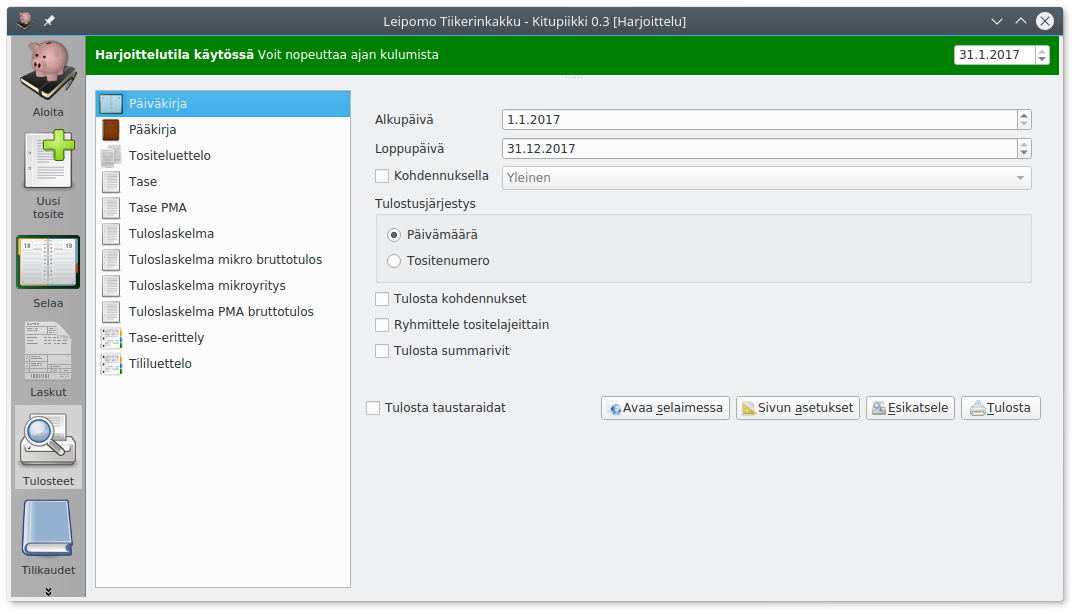
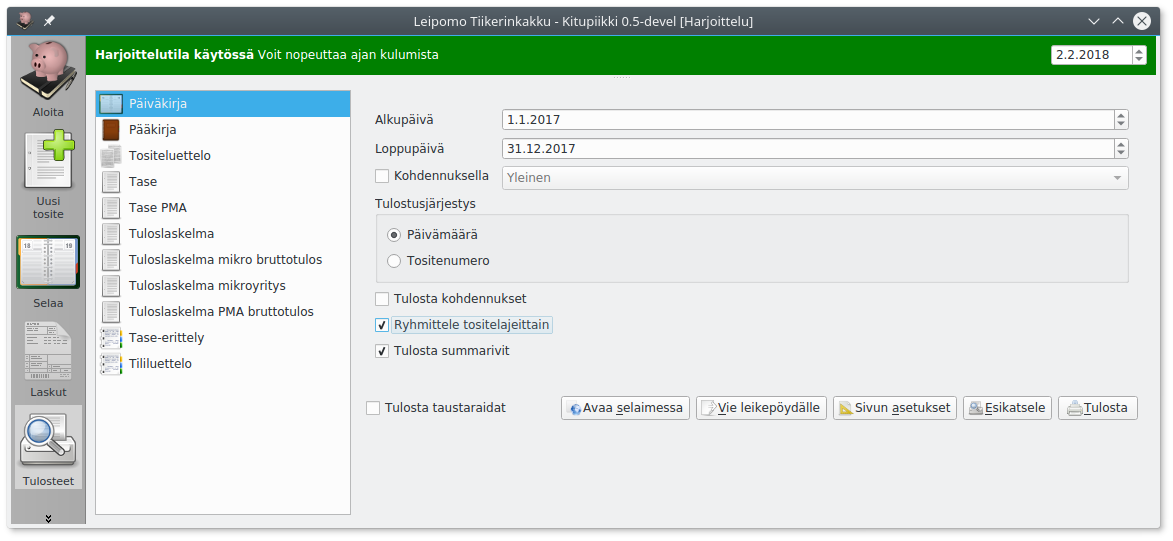
#56 Raportin vienti leikepöydälle

diff --git a/kitupiikki/raportti/raportti.cpp b/kitupiikki/raportti/raportti.cpp
@@ -33,6 +33,10 @@
 #include <QVBoxLayout>
 #include <QHBoxLayout>
 
+#include <QMimeData>
+#include <QApplication>
+#include <QClipboard>
+
 #include "raportti.h"
 #include "db/kirjanpito.h"
 
@@ -43,6 +47,7 @@ Raportti::Raportti( QWidget *parent) : QWidget(parent)
 
         raitaCheck = new QCheckBox(tr("Tulosta taustaraidat"));
         QPushButton *htmlBtn = new QPushButton( QIcon(":/pic/web.png"), tr("Avaa &selaimessa"));
+        QPushButton *vieBtn = new QPushButton( QIcon(":/pic/vie.png"), tr("&Vie leikepöydälle"));
         QPushButton *sivunasetusBtn = new QPushButton(QIcon(":/pic/sivunasetukset.png"),  tr("Sivun &asetukset"));
         QPushButton *esikatseluBtn = new QPushButton(QIcon(":/pic/print.png"), tr("&Esikatsele"));
         QPushButton *tulostaBtn = new QPushButton( QIcon(":/pic/tulosta.png"), tr("&Tulosta"));
@@ -51,6 +56,7 @@ Raportti::Raportti( QWidget *parent) : QWidget(parent)
         nappiLeiska->addWidget(raitaCheck);
         nappiLeiska->addStretch();
         nappiLeiska->addWidget( htmlBtn);
+        nappiLeiska->addWidget( vieBtn );
         nappiLeiska->addWidget( sivunasetusBtn);
         nappiLeiska->addWidget(esikatseluBtn);
         nappiLeiska->addWidget(tulostaBtn);
@@ -63,6 +69,7 @@ Raportti::Raportti( QWidget *parent) : QWidget(parent)
         setLayout(paaLeiska);
 
         connect( htmlBtn, SIGNAL(clicked(bool)), this, SLOT(avaaHtml()));
+        connect( vieBtn, SIGNAL(clicked(bool)), this, SLOT(leikepoydalle()));
         connect( sivunasetusBtn, SIGNAL(clicked(bool)), this, SLOT(sivunAsetukset()));
         connect( esikatseluBtn, SIGNAL(clicked(bool)), this, SLOT(esikatsele()) );
         connect( tulostaBtn, SIGNAL(clicked(bool)), this, SLOT(tulosta()) );
@@ -115,6 +122,16 @@ void Raportti::sivunAsetukset()
 {
     QPageSetupDialog dlg(kp()->printer(), this);
     dlg.exec();
+}
+
+void Raportti::leikepoydalle()
+{
+    QMimeData *mimeData = new QMimeData;
+    mimeData->setHtml( raportti().html() );
+
+    qApp->clipboard()->setMimeData(mimeData);
+
+    kp()->onni("Raportti viety leikepöydälle");
 }
 
 

diff --git a/kitupiikki/raportti/raporttisivu.h b/kitupiikki/raportti/raporttisivu.h
@@ -26,13 +26,13 @@
 #include <QWidget>
 #include <QPrinter>
 
-#include "ui_raportti.h"
 #include "raportti.h"
 
 #include "kitupiikkisivu.h"
 
 class QListWidget;
 class QHBoxLayout;
+class QListWidgetItem;
 
 /**
  * @brief Raporttien tulostussivu

diff --git a/kitupiikki/raportti/raportti.h b/kitupiikki/raportti/raportti.h
@@ -80,6 +80,10 @@ public slots:
      */
     void sivunAsetukset();
 
+    /**
+     * @brief Kopioi raportin leikepöydälle
+     */
+    void leikepoydalle();
 
 protected:
     QWidget *raporttiWidget;

diff --git a/docs/tulosteet/index.md b/docs/tulosteet/index.md
@@ -4,10 +4,14 @@
 
 Tulosteet-välilehdellä voit katsella ja tulostaa erilaisia raportteja kirjanpidostasi. Tulosteet ovat erilaisia eri tilikartoilla.
 
-Tuloste on helppo tallentaa pdf-muotoon valitsemalla **Esikatsele** ja sitten tallentamalla pdf-näyttäjällä tai selaimella. Html-muotoon voit vastaavasti tulostaa valitsemalla **Avaa selaimella** ja sitten tallentamalla sivu selaimellasi.
+* **Avaa selaimessa** avaa raportin selaimeen. Voit tallentaa raportin html-muodossa selaimen tallennustoiminnolla.
+* **Vie leikepöydälle** kopioi raportin html-muodossa leikepöydälle, josta sen voi liittää esim. taulukkolaskentaan tai tekstinkäsittelyyn
+* **Sivun asetuksista** löytyy esim. tulostettavan raportin paperinkoko
+* **Esikatsele** avaa raportin pdf-muodossa käyttöjärjestelmän asetuksista riippuen selaimeen tai pdf-katseluohjelmaan, jolla voit tallentaa tai tulostaa raportin.
+* **Tulosta** tulostaa raportin suoraan tulostimelle.
 
-!!! tip "Vienti taulukkolaskentaan ja CSV"
-    Tulosteet on helppo viedä taulukkolaskentaan tai tekstinkäsittelyyn avaamalla ne ensin selaimella ja kopioimalla sieltä leikepöydän kautta toiseen ohjelmaa. Tällä tavalla voit taulukkolaskentaohjelman avulla tehdä myös CSV-tiedostoja (siirrettävä tekstitiedosto, jossa kentät erotettu pilkulla toisistaan). *Päiväkirja*-näkymä soveltuu erityisen hyvin tietojen viemiseen.
+!!! tip "Vienti CSV-muotoon"
+    Tulosteet voi viedä esim. CSV-muodossa viemällä ne ensin leikepöydälle, liittämällä sitten taulukkolaskentaohjelmaan ja tallentamalla siellä haluttuun muotoon. *Päiväkirja*-näkymä soveltuu erityisen hyvin tietojen viemiseen.
 
 ## Päiväkirja
 
